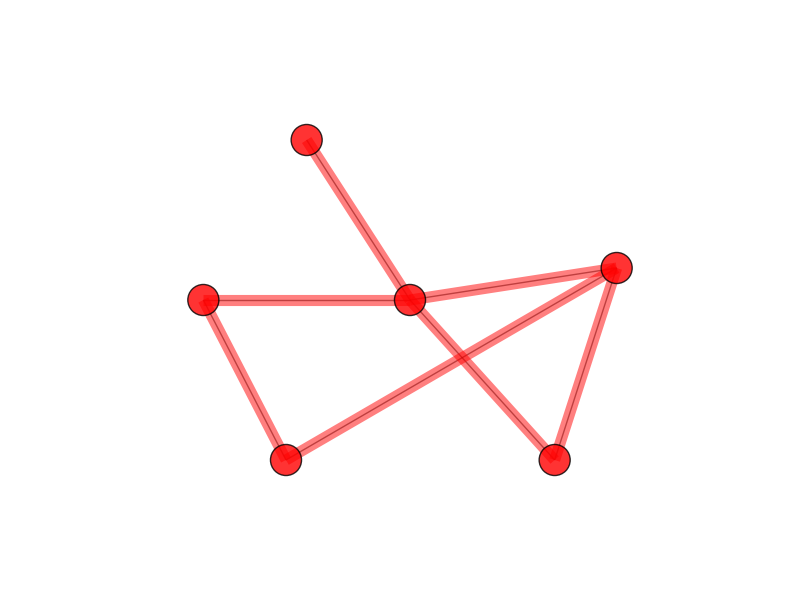
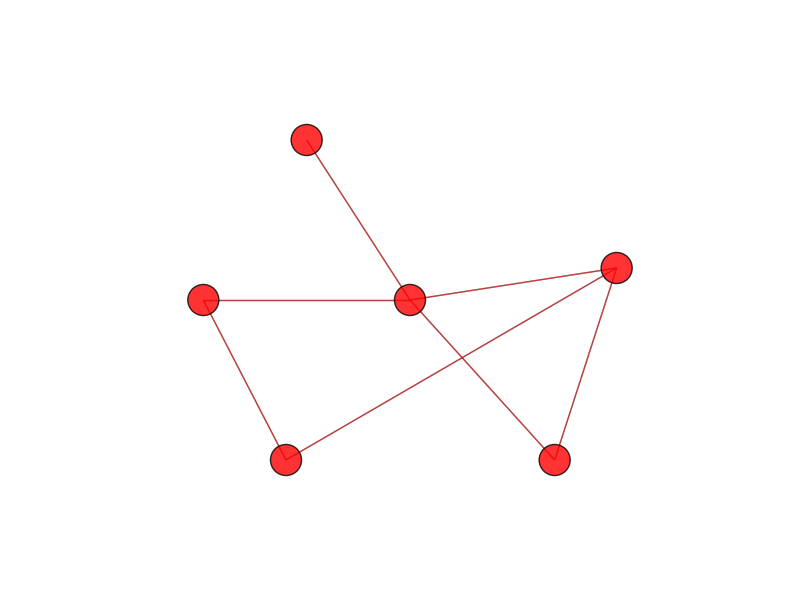
temp commit

Changed region(s): [[0.25, 0.24, 0.7812, 0.78]]

diff --git a/network/undirectedgraphwithsamenode.py b/network/undirectedgraphwithsamenode.py
@@ -35,7 +35,7 @@ nx.draw_networkx_nodes(G, pos, nodelist=nodes, node_color='r', node_size=500, al
 
 # draw the edges
 nx.draw_networkx_edges(G, pos, width=1.0, alpha=0.5)
-nx.draw_networkx_edges(G, pos, edgelist=edges, width=8, alpha=0.5, edge_color='r')
+nx.draw_networkx_edges(G, pos, edgelist=edges, width=1.0, alpha=0.5, edge_color='r')
 
 # use plt plot the graph and remove axis
 plt.axis('off')
